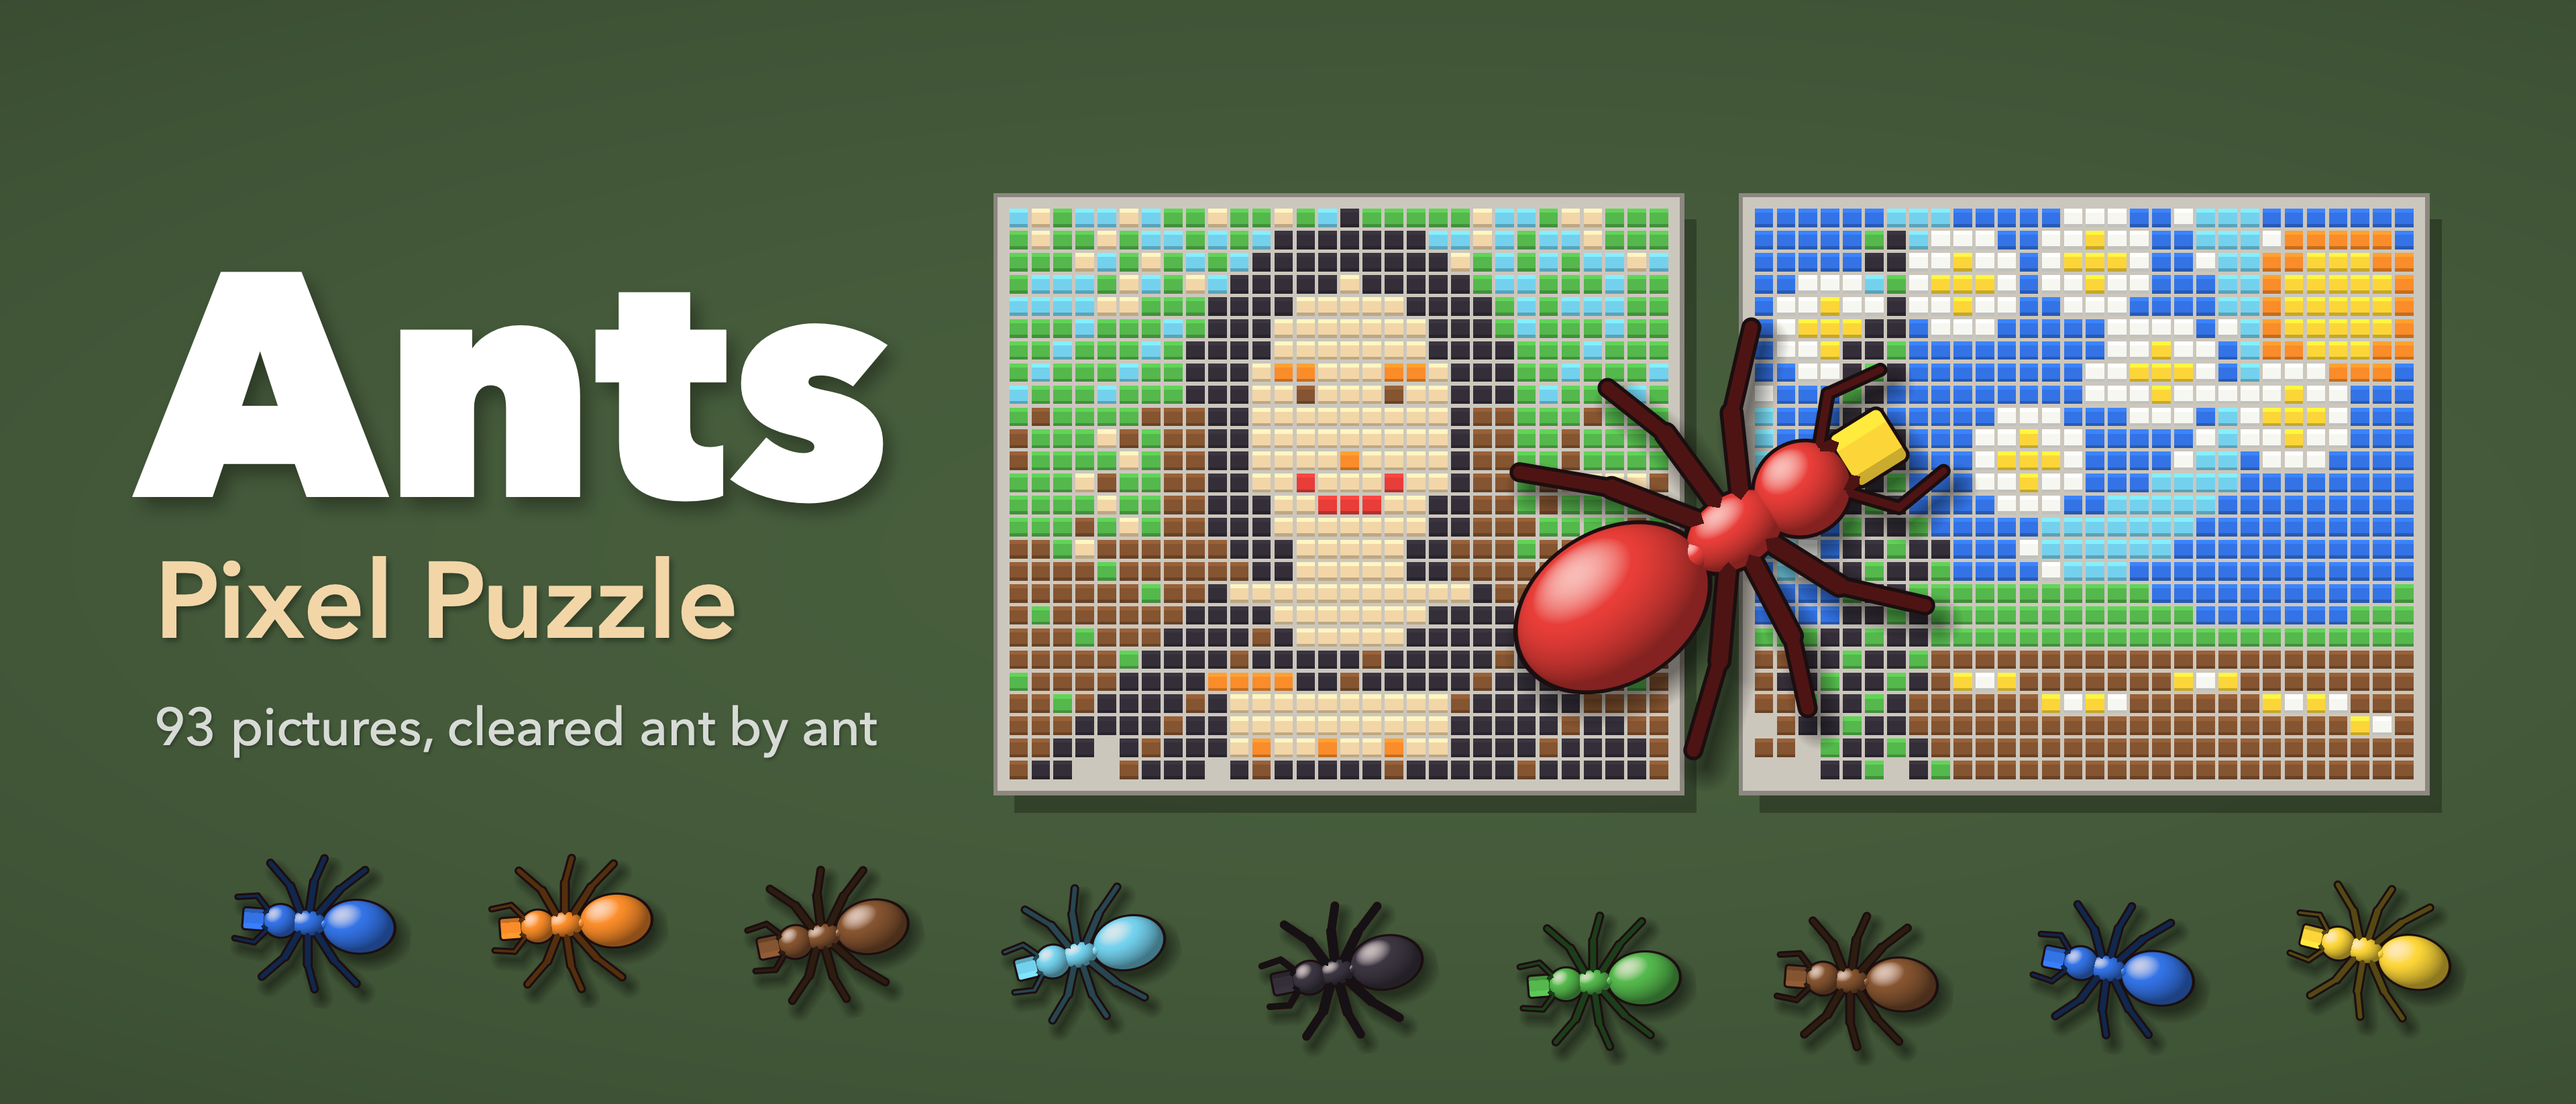
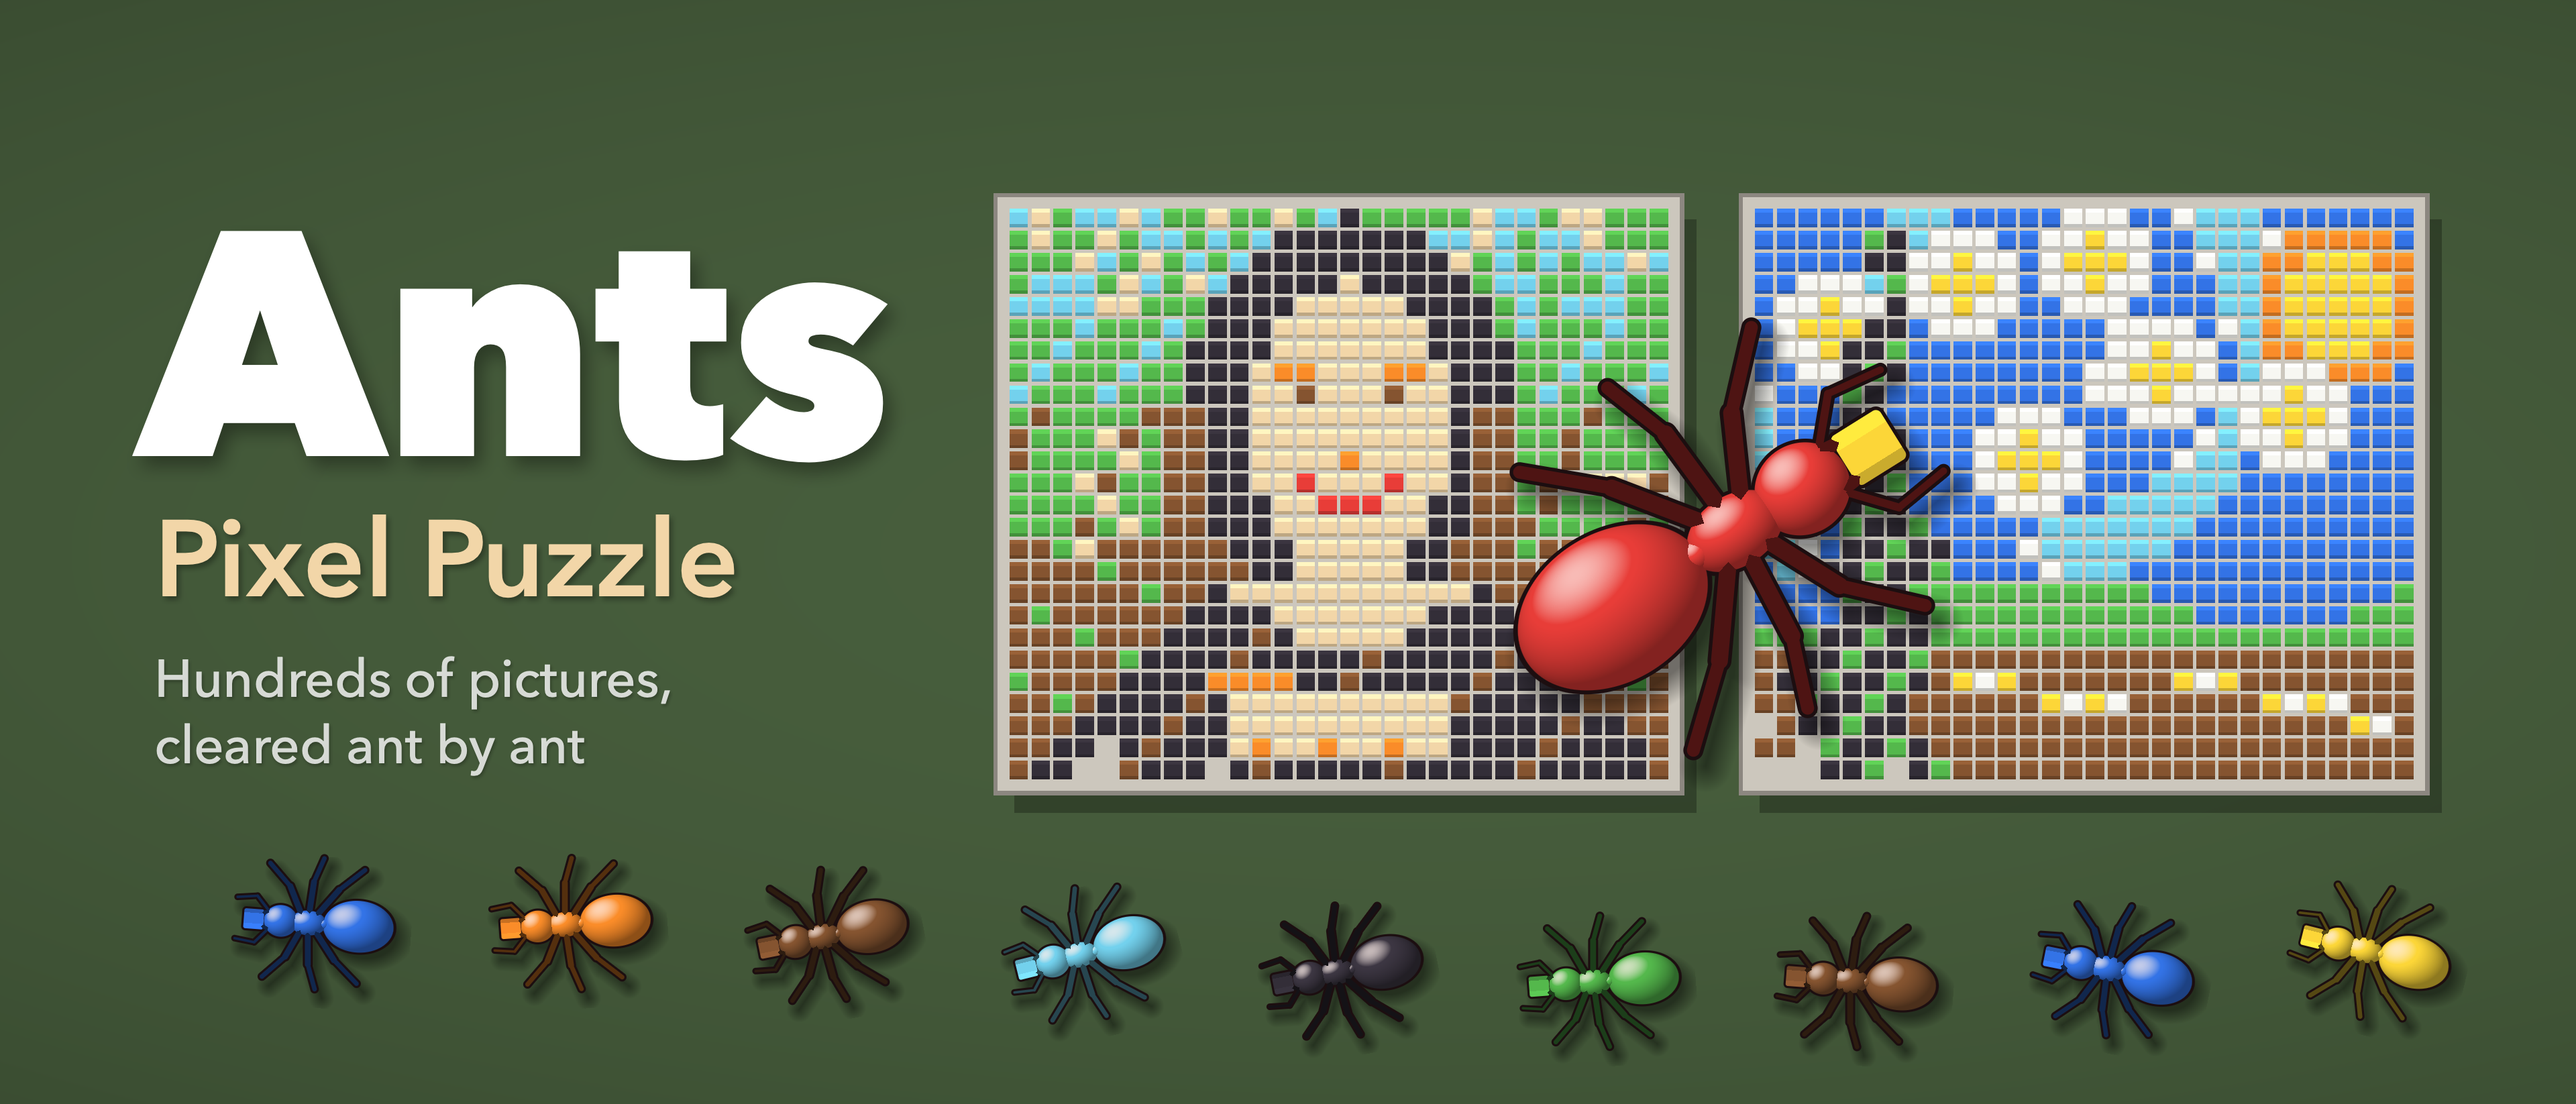
Headers say "Hundreds of pictures", not a count that will change
Claude-Session: https://claude.ai/code/session_01RMJBNh4stZ51wtHWMG3waF

Changed region(s): [[0.0312, 0.1859, 0.3438, 0.7126]]

diff --git a/docs/index.html b/docs/index.html
@@ -30,7 +30,7 @@ The order you tap is everything.</p>
 
 <img class="shot" src="screenshot.png" alt="A round of Ants: a pixel Sistine Madonna above slots and columns of ant boxes">
 
-<h2>93 pictures</h2>
+<h2>A growing gallery</h2>
 <p>Start with simple pixel art like a mushroom, a heart and a rocket, then work up to hard pixel
 versions of famous paintings: The Starry Night, The Great Wave, the Mona Lisa, Girl with a Pearl
 Earring, The Kiss, Water Lilies, The Night Watch, Las Meninas, and dozens more.</p>

diff --git a/tools/make-header.py b/tools/make-header.py
@@ -41,7 +41,7 @@ LAYOUTS = {
                    cell=19, paintings=[(1060, 150), (1700, 150)],
                    march=(2080, 780, 712, 0.135), ant=(1665, 420, 32, 0.42)),
     "wide": dict(size=(3840, 1646), out="docs/header-3840x1646.png",
-                 title=dict(x=100, lines=[(360, 230), (462, 78), (540, 38)]),
+                 title=dict(x=100, lines=[(330, 230), (432, 78), (505, 38), (553, 38)]),
                  cell=16, paintings=[(730, 150), (1270, 150)],
                  march=(1720, 230, 690, 0.125), ant=(1240, 395, 32, 0.36)),
     "sixteen": dict(size=(5244, 2950), out="docs/header-5244x2950.png",
@@ -229,8 +229,12 @@ def draw(name):
     # the heavy face's A has a wide side bearing.
     k = canvas.k
     title = layout["title"]
-    texts = [("Ants", "AvenirNext-Heavy", "#FFFFFF"), ("Pixel Puzzle", "AvenirNext-DemiBold", TAN),
-             ("93 pictures, cleared ant by ant", "AvenirNext-Medium", "#FFFFFFCC")]
+    # With four lines, the last is split in two.
+    tagline = ["Hundreds of pictures, cleared ant by ant"]
+    if len(title["lines"]) == 4:
+        tagline = ["Hundreds of pictures,", "cleared ant by ant"]
+    texts = [("Ants", "AvenirNext-Heavy", "#FFFFFF"), ("Pixel Puzzle", "AvenirNext-DemiBold", TAN)] + \
+            [(line, "AvenirNext-Medium", "#FFFFFFCC") for line in tagline]
     spec = [dict(text=text, font=font, colour=colour, size=size * k, baseline=baseline * k,
                  x=None if title["x"] == "centre" else (title["x"] + (12 if i else 0)) * k)
             for i, ((text, font, colour), (baseline, size)) in enumerate(zip(texts, title["lines"]))]
